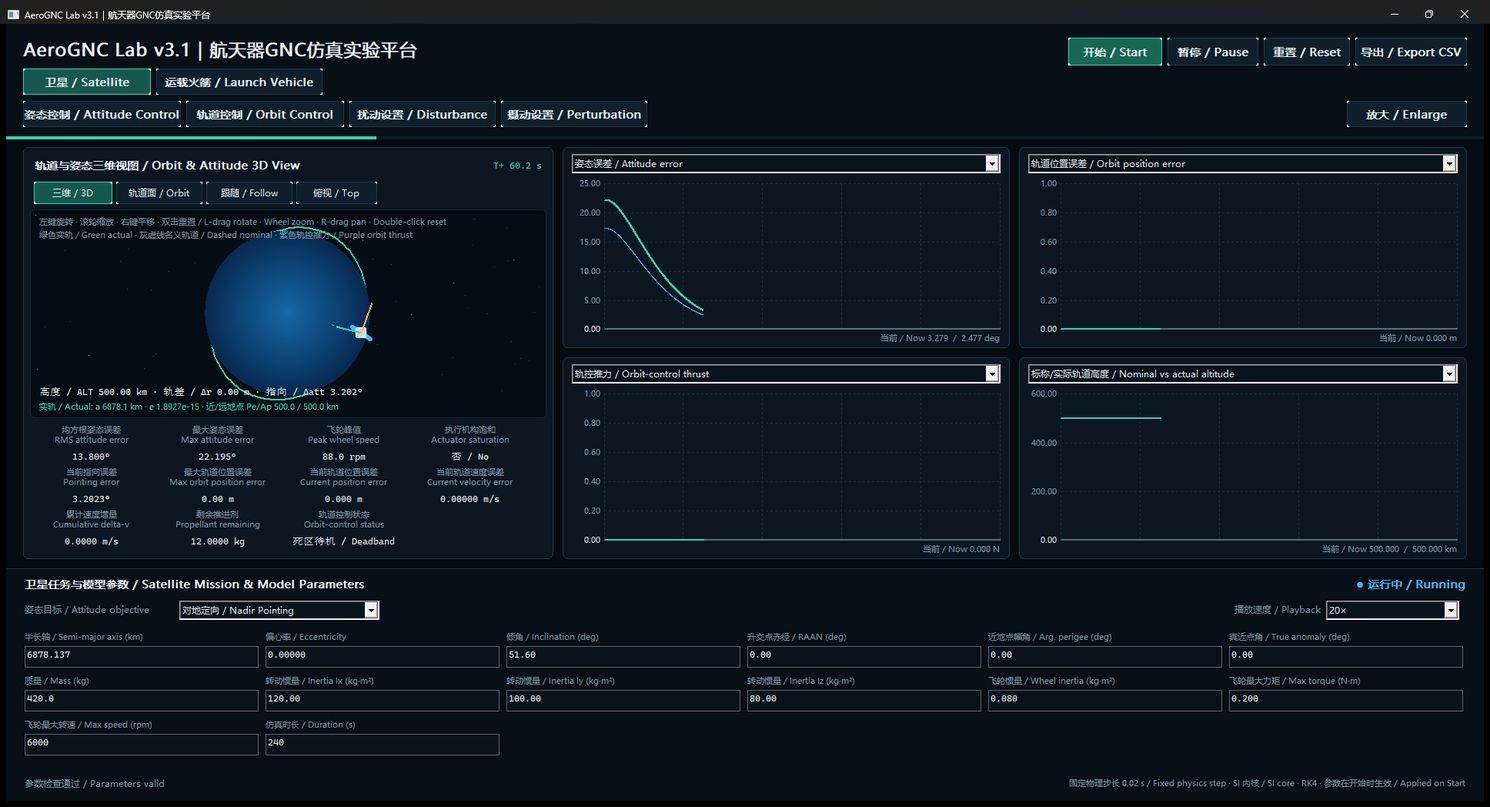
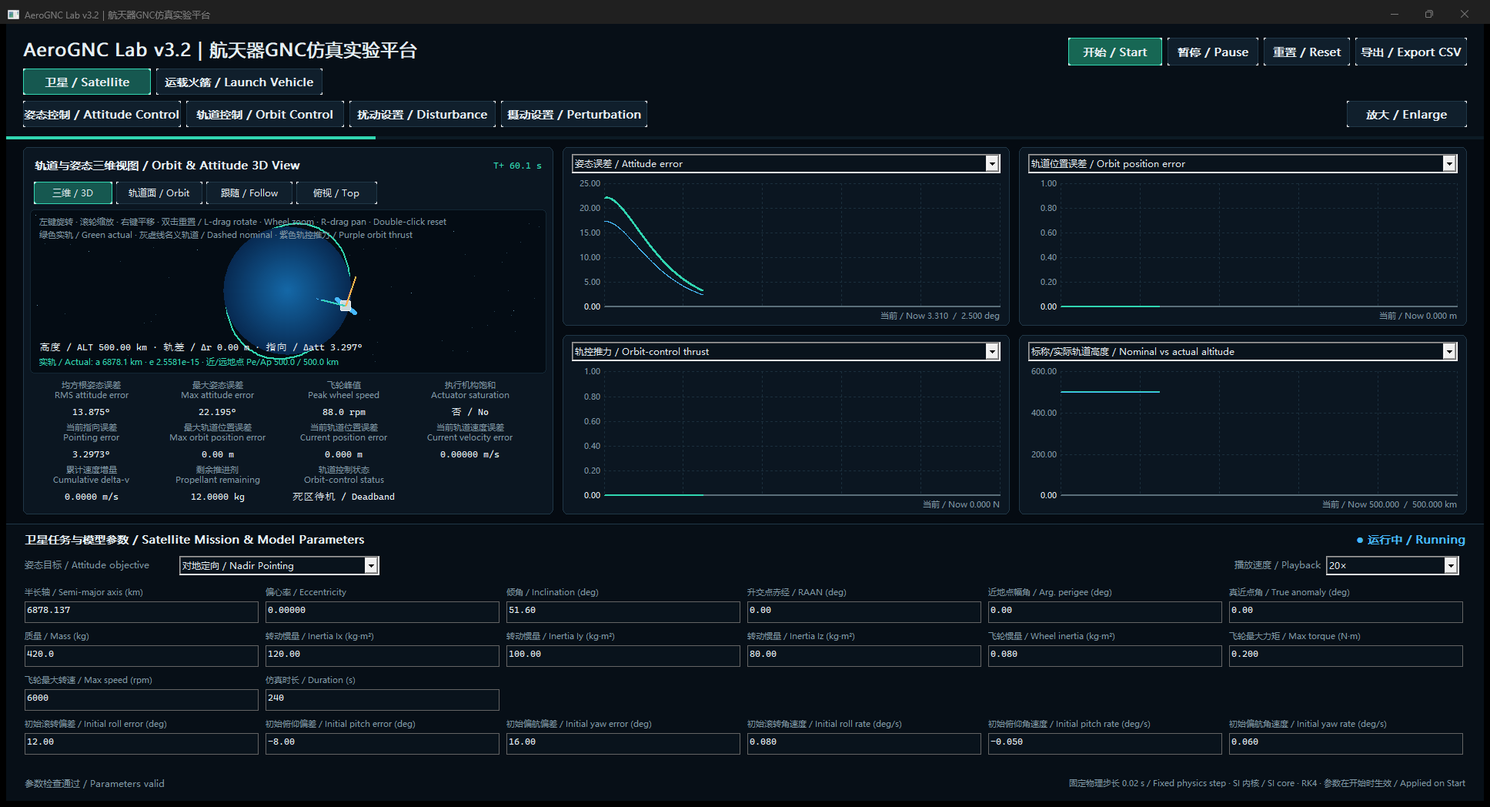
Release AeroGNC Lab v3.2.0

diff --git a/src/main.cpp b/src/main.cpp
@@ -61,7 +61,7 @@ constexpr int kIdSite = 501;
 constexpr int kIdOrbit = 502;
 constexpr int kIdPlayback = 503;
 constexpr int kIdPlotFirst = 510;
-constexpr int kFieldCount = 18;
+constexpr int kFieldCount = 24;
 
 constexpr double kRecommendedSatelliteMassMinKg = 20.0;
 constexpr double kRecommendedSatelliteMassMaxKg = 2000.0;
@@ -239,7 +239,7 @@ public:
         if (!missions_.loaded()) {
             const std::wstring message = L"无法读取六组火箭任务数据。\nUnable to load the six rocket mission datasets.\n\n"
                 + std::wstring(loadError.begin(), loadError.end());
-            MessageBoxW(nullptr, message.c_str(), L"AeroGNC Lab v3.1", MB_OK | MB_ICONERROR);
+            MessageBoxW(nullptr, message.c_str(), L"AeroGNC Lab v3.2", MB_OK | MB_ICONERROR);
             return false;
         }
         selectMission(false);
@@ -255,7 +255,7 @@ public:
         if (!RegisterClassExW(&wc)) return false;
 
         hwnd_ = CreateWindowExW(0, wc.lpszClassName,
-            L"AeroGNC Lab v3.1｜航天器GNC仿真实验平台",
+            L"AeroGNC Lab v3.2｜航天器GNC仿真实验平台",
             WS_OVERLAPPEDWINDOW | WS_CLIPCHILDREN,
             CW_USEDEFAULT, CW_USEDEFAULT, 1580, 970, nullptr, nullptr, instance_, this);
         if (!hwnd_) return false;
@@ -544,7 +544,13 @@ private:
                 L"建议飞轮转速 / Suggested wheel speed: 500–10000 rpm.",
                 L"必须大于 0；物理步长固定 0.02 s / Must be positive; physics step stays 0.02 s.",
                 L"任务相关参数 / Mission-specific parameter.", L"任务相关参数 / Mission-specific parameter.",
-                L"任务相关参数 / Mission-specific parameter.", L"任务相关参数 / Mission-specific parameter."};
+                L"任务相关参数 / Mission-specific parameter.", L"任务相关参数 / Mission-specific parameter.",
+                L"实际初始姿态相对任务参考姿态的滚转偏差 / Initial roll offset from the mission reference attitude.",
+                L"实际初始姿态相对任务参考姿态的俯仰偏差 / Initial pitch offset from the mission reference attitude.",
+                L"实际初始姿态相对任务参考姿态的偏航偏差 / Initial yaw offset from the mission reference attitude.",
+                L"实际初始机体系滚转角速度偏差 / Initial body-frame roll-rate error.",
+                L"实际初始机体系俯仰角速度偏差 / Initial body-frame pitch-rate error.",
+                L"实际初始机体系偏航角速度偏差 / Initial body-frame yaw-rate error."};
         } else {
             tooltipTexts_ = {
                 L"建议实验范围 / Suggested experiment: ±5%.", L"建议实验范围 / Suggested experiment: ±10%.",
@@ -558,7 +564,7 @@ private:
                 L"实际初始机体系角速率误差 / Actual initial body-rate error.",
                 L"实际初始机体系角速率误差 / Actual initial body-rate error.",
                 L"超过标称文件末端将自动进入轨道滑行 / Beyond nominal file end, orbital coast starts automatically.",
-                L"", L"", L"", L""};
+                L"", L"", L"", L"", L"", L"", L"", L"", L"", L""};
         }
         if (!updateControls || !tooltip_) return;
         for (int index = 0; index < kFieldCount; ++index) {
@@ -571,7 +577,10 @@ private:
         }
     }
 
-    int bottomTop(int height) const { return std::max(518, height - 302); }
+    int bottomTop(int height) const {
+        const bool satellite = scenario_ == ScenarioKind::Satellite;
+        return std::max(satellite ? 460 : 518, height - (satellite ? 360 : 302));
+    }
 
     RECT contentRect(int width, int height) const {
         return {22, 160, width - 22, bottomTop(height) - 12};
@@ -688,6 +697,12 @@ private:
                 fields[17] = {L"机动开始 / Slew start (s)", number(c.mission.slewStartSec, 1)};
                 break;
             }
+            fields[18] = {L"初始滚转偏差 / Initial roll error (deg)", number(c.initialErrorDeg.x, 2)};
+            fields[19] = {L"初始俯仰偏差 / Initial pitch error (deg)", number(c.initialErrorDeg.y, 2)};
+            fields[20] = {L"初始偏航偏差 / Initial yaw error (deg)", number(c.initialErrorDeg.z, 2)};
+            fields[21] = {L"初始滚转角速度 / Initial roll rate (deg/s)", number(c.initialRateDegPerSec.x, 3)};
+            fields[22] = {L"初始俯仰角速度 / Initial pitch rate (deg/s)", number(c.initialRateDegPerSec.y, 3)};
+            fields[23] = {L"初始偏航角速度 / Initial yaw rate (deg/s)", number(c.initialRateDegPerSec.z, 3)};
             return fields;
         }
 
@@ -769,6 +784,12 @@ private:
                                                 readField(16, c.mission.slewTargetEulerDeg.z)};
                 c.mission.slewStartSec = readField(17, c.mission.slewStartSec);
             }
+            c.initialErrorDeg = {readField(18, c.initialErrorDeg.x),
+                                 readField(19, c.initialErrorDeg.y),
+                                 readField(20, c.initialErrorDeg.z)};
+            c.initialRateDegPerSec = {readField(21, c.initialRateDegPerSec.x),
+                                      readField(22, c.initialRateDegPerSec.y),
+                                      readField(23, c.initialRateDegPerSec.z)};
         } else {
             auto& c = rocketConfig_;
             c.deviations = {readField(0, c.deviations.massPercent),
@@ -818,7 +839,9 @@ private:
             warning_[6] = readField(6, 0.0) < kRecommendedSatelliteMassMinKg
                        || readField(6, 0.0) > kRecommendedSatelliteMassMaxKg;
             for (int i : {7, 8, 9}) warning_[i] = readField(i, 0.0) < kRecommendedSatelliteInertiaMin
-                                                || readField(i, 0.0) > kRecommendedSatelliteInertiaMax;
+                                                 || readField(i, 0.0) > kRecommendedSatelliteInertiaMax;
+            for (int i : {18, 19, 20}) warning_[i] = std::abs(readField(i, 0.0)) > 45.0;
+            for (int i : {21, 22, 23}) warning_[i] = std::abs(readField(i, 0.0)) > 5.0;
             if (static_cast<gnc::SatelliteObjective>(SendMessageW(objectiveCombo_, CB_GETCURSEL, 0, 0))
                 == gnc::SatelliteObjective::TargetTracking) {
                 if (std::abs(readField(14, 0.0)) > 90.0) invalid_[14] = true;
@@ -1151,7 +1174,7 @@ private:
             const bool ok = gnc::exportCsv(path, scenario_, history());
             MessageBoxW(hwnd_, ok ? L"仿真数据已导出。\nSimulation data exported."
                                   : L"无法写入所选文件。\nUnable to write the selected file.",
-                        L"AeroGNC Lab v3.1", MB_OK | (ok ? MB_ICONINFORMATION : MB_ICONERROR));
+                        L"AeroGNC Lab v3.2", MB_OK | (ok ? MB_ICONINFORMATION : MB_ICONERROR));
         }
     }
 
@@ -1209,7 +1232,7 @@ private:
     void drawHeader(HDC dc, const RECT& client) {
         fillSolid(dc, {0, 0, client.right, 150}, RGB(7, 15, 23));
         line(dc, 0, 149, client.right, 149, kBorder);
-        drawText(dc, L"AeroGNC Lab v3.1｜航天器GNC仿真实验平台",
+        drawText(dc, L"AeroGNC Lab v3.2｜航天器GNC仿真实验平台",
                  {22, 8, 720, 58}, fontLarge_, kText,
                  DT_LEFT | DT_VCENTER | DT_SINGLELINE | DT_END_ELLIPSIS);
         const double progress = duration() > 0.0 ? gnc::clamp(sample().time / duration(), 0.0, 1.0) : 0.0;

diff --git a/src/settings_dialogs.cpp b/src/settings_dialogs.cpp
@@ -262,7 +262,7 @@ class ControlDialog final : public ModalWindow {
 public:
     ControlDialog(HWND owner, ScenarioKind scenario, ControlConfig config,
                   const Vec3& inertia, const Vec3& authority)
-        : ModalWindow(owner, L"AeroGNC Lab v3.1｜姿态控制设置 / Attitude Control Settings", 1080, 650), scenario_(scenario),
+        : ModalWindow(owner, L"AeroGNC Lab v3.2｜姿态控制设置 / Attitude Control Settings", 1080, 650), scenario_(scenario),
           config_(config), inertia_(inertia), authority_(authority) {
         recommendation_ = recommendControlGains(
             scenario == ScenarioKind::Satellite ? ControlVehicle::Satellite : ControlVehicle::LaunchVehicle,
@@ -416,7 +416,7 @@ private:
 class SatelliteOrbitControlDialog final : public ModalWindow {
 public:
     SatelliteOrbitControlDialog(HWND owner, SatelliteOrbitControlConfig config)
-        : ModalWindow(owner, L"AeroGNC Lab v3.1｜卫星轨道控制 / Satellite Orbit Control", 840, 700),
+        : ModalWindow(owner, L"AeroGNC Lab v3.2｜卫星轨道控制 / Satellite Orbit Control", 840, 700),
           config_(config) {}
 
     const SatelliteOrbitControlConfig& result() const { return config_; }
@@ -487,7 +487,7 @@ private:
 class GuidanceDialog final : public ModalWindow {
 public:
     GuidanceDialog(HWND owner, RocketGuidanceConfig config)
-        : ModalWindow(owner, L"AeroGNC Lab v3.1｜火箭轨迹制导 / Rocket Trajectory Guidance", 820, 720),
+        : ModalWindow(owner, L"AeroGNC Lab v3.2｜火箭轨迹制导 / Rocket Trajectory Guidance", 820, 720),
           config_(config) {}
 
     const RocketGuidanceConfig& result() const { return config_; }
@@ -579,7 +579,7 @@ class DisturbanceDialog final : public ModalWindow {
 public:
     DisturbanceDialog(HWND owner, ScenarioKind scenario, SatelliteDisturbanceConfig satellite,
                       RocketDisturbanceConfig rocket)
-        : ModalWindow(owner, L"AeroGNC Lab v3.1｜扰动设置 / Disturbance Settings", 940, 780),
+        : ModalWindow(owner, L"AeroGNC Lab v3.2｜扰动设置 / Disturbance Settings", 940, 780),
           scenario_(scenario), satellite_(satellite), rocket_(rocket) {}
     const SatelliteDisturbanceConfig& satelliteResult() const { return satellite_; }
     const RocketDisturbanceConfig& rocketResult() const { return rocket_; }
@@ -760,7 +760,7 @@ private:
 class PerturbationDialog final : public ModalWindow {
 public:
     PerturbationDialog(HWND owner, PerturbationConfig config)
-        : ModalWindow(owner, L"AeroGNC Lab v3.1｜摄动设置 / Perturbation Settings", 690, 520), config_(config) {}
+        : ModalWindow(owner, L"AeroGNC Lab v3.2｜摄动设置 / Perturbation Settings", 690, 520), config_(config) {}
     const PerturbationConfig& result() const { return config_; }
 
 protected:

diff --git a/tests/test_main.cpp b/tests/test_main.cpp
@@ -236,6 +236,36 @@ int main() {
                 "wheel speed saturation must be enforced");
     });
 
+    test("satellite configurable initial attitude state", [] {
+        SatelliteConfig baselineConfig{};
+        baselineConfig.initialErrorDeg = {7.0, -5.0, 9.0};
+        baselineConfig.initialRateDegPerSec = {};
+        baselineConfig.disturbanceEnabled = false;
+
+        SatelliteConfig configured = baselineConfig;
+        configured.initialRateDegPerSec = {0.12, -0.08, 0.05};
+
+        const SatelliteSimulation baseline(baselineConfig);
+        const SatelliteSimulation simulation(configured);
+        const SimulationSample& initial = simulation.currentSample();
+        const Quaternion expectedOffset = Quaternion::fromEulerZYX(
+            configured.initialErrorDeg.x * kDegToRad,
+            configured.initialErrorDeg.y * kDegToRad,
+            configured.initialErrorDeg.z * kDegToRad);
+        requireNear(attitudeErrorDeg(initial),
+                    quaternionAngularDistance(Quaternion::identity(), expectedOffset) * kRadToDeg,
+                    1.0e-9, "configured initial attitude offset");
+
+        const Vec3 rateDifference = initial.angularRateDegPerSec
+                                  - baseline.currentSample().angularRateDegPerSec;
+        requireNear(rateDifference.x, configured.initialRateDegPerSec.x, 1.0e-12,
+                    "configured initial roll rate");
+        requireNear(rateDifference.y, configured.initialRateDegPerSec.y, 1.0e-12,
+                    "configured initial pitch rate");
+        requireNear(rateDifference.z, configured.initialRateDegPerSec.z, 1.0e-12,
+                    "configured initial yaw rate");
+    });
+
     test("satellite orbit control recovers from translational impulse", [] {
         auto run = [](bool orbitControlEnabled) {
             SatelliteConfig config{};

diff --git a/README.md b/README.md
@@ -1,4 +1,4 @@
-# AeroGNC Lab v3.1｜航天器GNC仿真实验平台
+# AeroGNC Lab v3.2｜航天器GNC仿真实验平台
 
 [![Release](https://img.shields.io/github/v/release/zhaoyun20180911/AeroGNC-Lab?label=release)](https://github.com/zhaoyun20180911/AeroGNC-Lab/releases)
 [![Windows build](https://github.com/zhaoyun20180911/AeroGNC-Lab/actions/workflows/windows-build.yml/badge.svg)](https://github.com/zhaoyun20180911/AeroGNC-Lab/actions/workflows/windows-build.yml)
@@ -6,7 +6,7 @@
 ![C++](https://img.shields.io/badge/C%2B%2B-20-00599C)
 [![License](https://img.shields.io/badge/license-MIT-green.svg)](LICENSE)
 
-AeroGNC Lab v3.1 是使用 C++20 和原生 Win32/GDI 构建的中英双语桌面仿真实验平台，提供卫星姿态与轨道闭环控制、运载火箭轨迹制导、扰动配置、交互式三维技术视图、实时曲线和 CSV 数据导出。
+AeroGNC Lab v3.2 是使用 C++20 和原生 Win32/GDI 构建的中英双语桌面仿真实验平台，提供卫星姿态与轨道闭环控制、运载火箭轨迹制导、扰动配置、交互式三维技术视图、实时曲线和 CSV 数据导出。
 
 This is a bilingual native C++20 Windows desktop simulation platform for satellite attitude/orbit control and launch-vehicle trajectory guidance. It includes interactive 3D technical views, configurable control and disturbance models, real-time plots, and CSV export.
 
@@ -14,18 +14,18 @@ This is a bilingual native C++20 Windows desktop simulation platform for satelli
 
 | 版本 | 适用对象 | 下载与说明 |
 |---|---|---|
-| **Windows x64 免安装封装版（推荐）** | 希望直接体验软件的用户 | [下载封装版](https://github.com/zhaoyun20180911/AeroGNC-Lab/releases/download/v3.1.0/AeroGNC_Lab_v3.1_Windows_x64_Portable.zip)；下载并解压后无需安装，双击 EXE 即可运行。 |
-| **可编辑源码版** | 学习、验证和二次开发 | [下载源码版](https://github.com/zhaoyun20180911/AeroGNC-Lab/releases/download/v3.1.0/AeroGNC_Lab_v3.1_Source.zip)；需要 Windows、Visual Studio 2022、CMake 和 C++ 开发环境。 |
+| **Windows x64 免安装封装版（推荐）** | 希望直接体验软件的用户 | [下载封装版](https://github.com/zhaoyun20180911/AeroGNC-Lab/releases/download/v3.2.0/AeroGNC_Lab_v3.2_Windows_x64_Portable.zip)；下载并解压后无需安装，双击 EXE 即可运行。 |
+| **可编辑源码版** | 学习、验证和二次开发 | [下载源码版](https://github.com/zhaoyun20180911/AeroGNC-Lab/releases/download/v3.2.0/AeroGNC_Lab_v3.2_Source.zip)；需要 Windows、Visual Studio 2022、CMake 和 C++ 开发环境。 |
 
 > 封装版面向 Windows 10/11 x64，已静态链接 MSVC 运行库并内嵌七个任务 CSV。当前未使用商业代码签名证书，首次运行时 Windows SmartScreen 可能显示“未知发布者”；请从本仓库 Release 下载并核对其中的 SHA-256。
 
 ## 软件界面 / Interface
 
-![AeroGNC Lab v3.1 主界面总览](docs/images/aerognc-main-overview.png)
+![AeroGNC Lab v3.2 主界面总览](docs/images/aerognc-main-overview.png)
 
 ## 功能设置 / Control and simulation settings
 
-![AeroGNC Lab v3.1 设置功能总览](docs/images/aerognc-settings-overview.png)
+![AeroGNC Lab v3.2 设置功能总览](docs/images/aerognc-settings-overview.png)
 
 ## 源码运行 / Run from source
 
@@ -49,15 +49,16 @@ ctest --test-dir build -C Release --output-on-failure
 powershell.exe -NoProfile -ExecutionPolicy Bypass -File .\scripts\package_portable.ps1
 ```
 
-- `AeroGNC_Lab_v3.1_Windows_x64.exe`：可单独复制到其他 Windows 10/11 x64 电脑运行的单文件版。
-- `AeroGNC_Lab_v3.1_Windows_x64_Portable.zip`：包含同一 EXE、使用说明和 SHA-256 校验值。
+- `AeroGNC_Lab_v3.2_Windows_x64.exe`：可单独复制到其他 Windows 10/11 x64 电脑运行的单文件版。
+- `AeroGNC_Lab_v3.2_Windows_x64_Portable.zip`：包含同一 EXE、使用说明和 SHA-256 校验值。
 
 便携构建使用静态 MSVC 运行库，只依赖 Windows 自带的系统 DLL；七个只读任务 CSV 作为原始字节嵌入 EXE。开发环境仍优先读取项目 `data/rocket_missions/`，外部目录不存在时自动使用内嵌数据。当前文件没有商业代码签名证书，因此陌生电脑首次运行时可能出现 Windows SmartScreen“未知发布者”提示。
 
-## 3.1 功能 / Version 3.1 features
+## 3.2 功能 / Version 3.2 features
 
 - 全部可见参数、选项、按钮、状态与指标采用中英双语。
 - 卫星支持六个经典轨道根数、质量/惯量/飞轮参数，以及对地定向、惯性定向、目标跟踪和姿态机动四种任务。
+- 卫星主界面参数栏可直接编辑三轴初始姿态偏差和三轴初始机体系角速度偏差，六项参数在下一次开始或重置时生效。
 - 火箭仅允许选择 3 个发射场 × 2 个目标轨道，共 6 个合法固定任务；标称质量、推力、比冲、惯量和 TVC 参数只读。
 - 火箭用户输入是 Truth Model 偏差：质量、惯量、推力、比冲、阻力系数、大气密度及 TVC 零偏。
 - 标称轨迹从只读 CSV 插值；位置/速度线性插值，四元数使用符号连续处理与 SLERP。文件结束后标称和实际状态分别进行二体轨道滑行，实际状态不会吸附回标称轨迹。
@@ -72,7 +73,7 @@ powershell.exe -NoProfile -ExecutionPolicy Bypass -File .\scripts\package_portab
 - 播放速度固定为 0.25×、0.5×、1×、2×、5×、10×、20×、50×、100× 和最快模式；物理积分步长保持 0.02 s。
 - CSV 导出包含参考/实际状态、误差、控制量、执行机构、任务阶段、轨道滑行标志及爬升跟踪有效标志；卫星 CSV 另含 RTN 位置/速度误差、轨控推力、推进剂、累计 Δv 与脉冲状态。
 
-## v3.1 卫星闭环轨道控制 / Satellite closed-loop orbit control
+## 卫星闭环轨道控制 / Satellite closed-loop orbit control
 
 - 实际轨道和未受扰名义轨道分别采用二体 RK4 传播；轨控器不重新在线规划轨道，而是反馈修正二者的位置、速度偏差。
 - 控制器根据 RTN/LVLH 六状态误差生成 ECI 修正加速度，再转换为本体系三轴推力器指令；卫星姿态任务继续由反作用飞轮独立执行。

diff --git a/docs/satellite_model.md b/docs/satellite_model.md
@@ -2,13 +2,14 @@
 
 - 轨道由六个经典根数转换为 ECI 初值。实际轨道与未受扰名义轨道是两个独立状态，均在球形地球二体引力下用 RK4 传播，不使用状态吸附。
 - 姿态任务包括：对地定向、惯性 Euler 目标、地面经纬度目标跟踪、指定时刻开始的姿态机动。
+- 主界面参数区可编辑三轴初始姿态偏差和三轴初始机体系角速度偏差；六项参数在下一次开始或重置时进入卫星初始状态。
 - 姿态采用 `q_BI` 和机体系角速度，控制器输出机体系期望力矩。
 - 三个正交反作用飞轮分别执行力矩，并施加最大力矩和最大转速限制；飞轮惯量用于角动量/转速更新。
 - 轨道控制器使用名义/实际 RTN 位置与速度误差形成六状态反馈，生成 ECI 修正加速度，并按当前姿态换算为本体系三轴微推力器组的合力指令。推力受合推力上限、死区和推进剂余量约束。
 - 轨控推进剂质量属于卫星初始湿质量的一部分，按 `ṁ = T/(Isp·g₀)` 消耗；推进剂耗尽后轨控推力强制归零，累计 Δv 继续保留为结果量。
 - 可组合外扰包括恒定力矩、有限时脉冲、正弦力矩、确定性随机力矩，以及在指定时刻施加的一次性 RTN/LVLH 速度脉冲。
-- 摄动窗口中的 J2、大气阻力、月球/太阳三体引力和太阳光压为 3.1 界面占位项，全部标注“未启用 / Not enabled”，当前轨道后端仍严格采用二体模型。
+- 摄动窗口中的 J2、大气阻力、月球/太阳三体引力和太阳光压为 3.2 界面占位项，全部标注“未启用 / Not enabled”，当前轨道后端仍严格采用二体模型。
 - 三维视图从当前实际 ECI 位置/速度反算瞬时轨道根数，并用同一米到像素比例绘制实轨和地球；因此 LEO、高轨及不同偏心率会呈现正确的相对尺度与轨道形状。
 - 三维视图同时绘制虚线名义轨道、实际瞬时轨道、名义/实际卫星位置、二者误差连线和轨控力矢量。
 
-The satellite supports arbitrary valid classical elements, four attitude-reference generators, constrained reaction wheels, independent nominal/actual two-body propagation, six-state orbit feedback, a fuel-limited three-axis thruster cluster, and a one-shot RTN delta-v disturbance. Orbit-perturbation entries remain explicit UI placeholders and do not alter the two-body backend.
+The satellite supports arbitrary valid classical elements, four attitude-reference generators, editable three-axis initial attitude and body-rate errors, constrained reaction wheels, independent nominal/actual two-body propagation, six-state orbit feedback, a fuel-limited three-axis thruster cluster, and a one-shot RTN delta-v disturbance. Orbit-perturbation entries remain explicit UI placeholders and do not alter the two-body backend.

diff --git a/docs/release_notes_v3.2.0.md b/docs/release_notes_v3.2.0.md
@@ -1,0 +1,35 @@
+# AeroGNC Lab v3.2.0
+
+卫星初始姿态状态参数版本 / Satellite initial attitude state release.
+
+## 下载选择 / Downloads
+
+- **Windows x64 免安装封装版（推荐）**：下载 `AeroGNC_Lab_v3.2_Windows_x64_Portable.zip`，解压后无需安装，双击 EXE 即可运行。
+- **可编辑源码版**：下载 `AeroGNC_Lab_v3.2_Source.zip`，适合学习和二次开发；需要 Windows、Visual Studio 2022、CMake 和 C++ 开发环境。
+
+## v3.2 更新 / What's new
+
+- 卫星主界面参数区新增三轴初始姿态偏差：滚转、俯仰和偏航，单位为度。
+- 新增三轴初始机体系角速度偏差：滚转、俯仰和偏航角速度，单位为度每秒。
+- 六项参数全部采用中英双语，可直接编辑，并在下一次开始或重置时进入卫星姿态动力学。
+- 卫星参数面板扩展为四行，新增字段与底部状态栏保持清晰间距；火箭参数面板维持原布局。
+- README 主界面和设置功能截图已重新生成并更新为 v3.2。
+
+## 主要功能 / Highlights
+
+- 卫星六轨道根数、四类姿态任务、PD/PID/LQR 姿态控制、反作用飞轮和可编辑初始姿态状态。
+- 卫星名义/实际独立轨道传播、RTN 六状态轨道控制、三轴微推力器、推进剂与一次性 Δv 扰动。
+- 六个固定运载火箭任务、位置/速度轨迹制导外环、姿态控制内环、TVC/RCS、分级推进剂与自适应关机。
+- 可交互三维技术视图、实时双语曲线、性能指标、扰动/摄动设置和 CSV 导出。
+
+## 封装与验证 / Packaging and validation
+
+- Windows 10/11 x64 单文件 EXE，静态链接 MSVC 运行库。
+- 七个只读任务 CSV 已嵌入 EXE，不需要外部 `data` 文件夹。
+- 自动测试：`29 passed, 0 failed`。
+- 已在仅包含一个 EXE 的隔离目录中完成内嵌任务数据自检以及卫星、火箭界面启动验证。
[1 lines of base64/hex data omitted]
+
+## 注意 / Notice
+
+当前可执行文件未使用商业代码签名证书，Windows SmartScreen 首次运行时可能显示“未知发布者”。本项目仅用于教学、科研演示和软件仿真实验，不是飞行鉴定软件，不得用于真实航天器、运载火箭或安全关键决策。

diff --git a/development_log.md b/development_log.md
@@ -66,3 +66,11 @@
 - 自动测试扩展至 28 项；0.20 m/s 航向脉冲用例验证闭环 1200 s 末位置误差约 0.21 m，显著小于开环约 251.5 m，并覆盖推力上限与推进剂耗尽语义。
 - 新增 Windows x64 免安装构建：MSVC 运行库静态链接，七个原始任务 CSV 作为 RCDATA 嵌入 EXE，并保留开发环境外部数据优先、内嵌资源回退的加载策略。
 - EXE 写入 3.1.0.0 文件/产品版本信息，提供内嵌资源无界面自检、单文件输出、便携 ZIP、SHA-256 清单和可重复打包脚本。
+
+## 2026-08-19 — v3.2 卫星初始姿态状态参数 / Satellite initial attitude state parameters
+
+- 当前产品显示名和 Windows 文件/产品版本统一更新为 `AeroGNC Lab v3.2｜航天器GNC仿真实验平台` 与 3.2.0.0。
+- 卫星主界面参数栏扩展为四行，新增三轴初始姿态偏差和三轴初始机体系角速度偏差六个双语可编辑参数。
+- 六项初始状态在下一次开始或重置时写入卫星姿态动力学；建议范围超出时以黄色提示，但仍允许进行极限工况实验。
+- 卫星参数面板单独增高，火箭参数面板保持原尺寸；实机界面检查确认新增字段与底部状态栏不重叠。
+- 自动测试扩展至 29 项，新增自定义卫星初始姿态与角速度状态应用验证。

diff --git a/docs/validation.md b/docs/validation.md
@@ -1,12 +1,12 @@
 # 验证策略与结果 / Validation Strategy and Results
 
-Release 配置执行 28 项自动测试，当前结果为 `28 passed, 0 failed`。覆盖范围：
+Release 配置执行 29 项自动测试，当前结果为 `29 passed, 0 failed`。覆盖范围：
 
 - 四元数单位性、轴旋转、乘法顺序、矩阵/Euler 往返、`q/-q` 等价与 SLERP 归一化。
 - 完整 3×3 惯量矩阵求逆、无力矩角动量守恒和恒力矩解析解。
 - 六个经典轨道根数与 ECI 状态往返。
 - 控制 OFF 隔离、PD/PID/LQR 选择、PID 积分限幅与抗饱和。
-- 卫星四种姿态任务的有限性、闭环收敛、飞轮力矩/转速限制。
+- 卫星四种姿态任务的有限性、可配置初始姿态/角速度状态、闭环收敛、飞轮力矩/转速限制。
 - 卫星一次性 RTN 速度脉冲、名义/实际独立传播、六状态轨道闭环恢复、轨控推力限幅、推进剂消耗与耗尽强制停机。
 - 卫星/火箭持续扰动的组合、时间窗和随机种子确定性。
 - 任务仓库严格加载六个预设、轨迹完整性、时间插值与四元数连续性。
